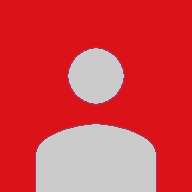
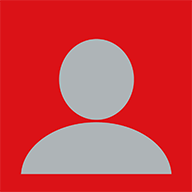
2nd commit -  my accounts design and code implementation

diff --git a/www/my-accounts-page.html b/www/my-accounts-page.html
@@ -53,16 +53,17 @@
             <br>Please 'Pull Down' to refresh</span>
     </p>
 
-    <ons-list id="my-accounts-list" style="display: none;">
+    <ons-list id="my-accounts-list" style="display: block;">
 
         <div class="row">
             <div class="col s1"></div>
             <div class="col s10">
-                <div class="card small">
+                <div class="card horizontal">
                     <div class="card-image" style="padding-top: 3%; padding-left: 3%; padding-right: 3%;
                     background-image: url('css/app-images/mastercard-local-1.png'); background-position: center; background-size: contain; background-origin: content-box; background-repeat: no-repeat;">
-                        <img src="css/app-images/blank.png">
+                        <img src="css/app-images/avatar-1.png">
                     </div>
+                    <div class="card-stacked">
                     <div class="card-content" style="padding-bottom: 5px;">
                         <div style="font-weight: bold; font-style: italic; color: #464646">My Special Card</div>
                         <div style="font-weight: bold; font-size: 0.8em; color: #464646">Master Card</div>
@@ -84,6 +85,7 @@
                             </ons-icon>
                         </ons-button>
                     </div>
+                </div>
                 </div>
             </div>
             <div class="col s1"></div>

diff --git a/www/add-card-page.html b/www/add-card-page.html
@@ -189,10 +189,11 @@
     </ons-bottom-toolbar>
 
     <!-- tap target for feature discovery. This is not directly visible on the page -->
-    <div class="tap-target" data-activates="add-card-help-1" style="background-color: #82b1ff; color: #ffffff">
+    <div class="tap-target" data-activates="add-card-help-1" style="background-color: #82b1ff; color: #ffffff;">
         <div class="tap-target-content">
-            <h5>Store Your Card</h5>
-            <p style="width: 60%;">Add your bank cards to your secure digital wallet</p>
+            <h5 style="padding-left: 2em;">Store Your Card</h5>
+            <p style="width: 50%; margin-left: 3%;">
+                Add your bank cards to your secure digital wallet</p>
         </div>
     </div>
 
